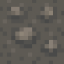
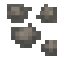
add cotton

diff --git a/src/assets.rs b/src/assets.rs
@@ -27,7 +27,7 @@ impl AssetManager {
             (TileType::Water, "water.png"),
             (TileType::Sand, "sand.png"),
             (TileType::Mountain, "mountain.png"),
-            (TileType::Swamp, "swamp.png"), // Note: your file is named "swap.png" - you might need to rename it
+            (TileType::Swamp, "swamp.png"),
         ];
         
         for (tile_type, filename) in terrain_types.iter() {
@@ -48,7 +48,8 @@ impl AssetManager {
             (VeinType::CoalDeposit, "coal.png"),
             (VeinType::ClayDeposit, "clay.png"),
             (VeinType::CopperOre, "copper.png"),
-            (VeinType::StoneQuarry, "stone_quarry.png"), // This is a resource overlay, not terrain
+            (VeinType::StoneQuarry, "stone_quarry.png"),
+            (VeinType::CottonPatch, "cotton.png"),
         ];
         
         for (vein_type, filename) in resource_types.iter() {

diff --git a/src/types/terrain.rs b/src/types/terrain.rs
@@ -30,7 +30,7 @@ pub enum VeinType {
     StoneQuarry,
     ClayDeposit,
     CopperOre,
-    CottonPatch, // NEW
+    CottonPatch,
 }
 
 impl VeinType {
@@ -63,7 +63,7 @@ impl VeinType {
             VeinType::StoneQuarry => 5,
             VeinType::ClayDeposit => 4,
             VeinType::CopperOre => 4,
-            VeinType::CottonPatch => 3, // Cotton yield
+            VeinType::CottonPatch => 3,
         }
     }
     
@@ -74,7 +74,7 @@ impl VeinType {
             VeinType::StoneQuarry => (100, 300),
             VeinType::ClayDeposit => (40, 180),
             VeinType::CopperOre => (60, 220),
-            VeinType::CottonPatch => (15, 60), // Smaller cotton patches
+            VeinType::CottonPatch => (15, 60),
         }
     }
     
